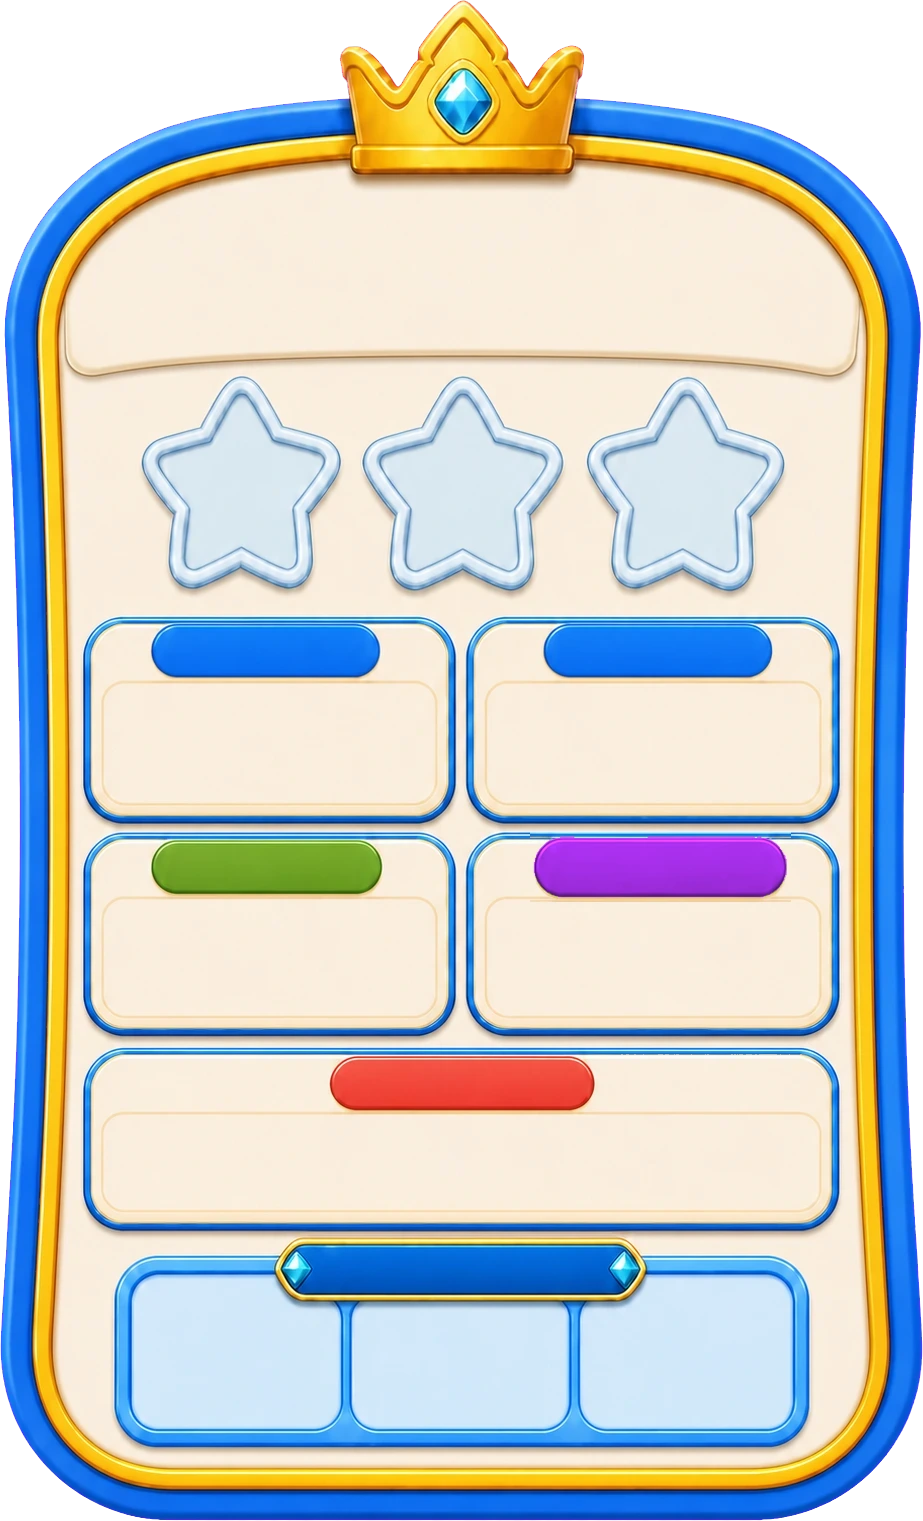
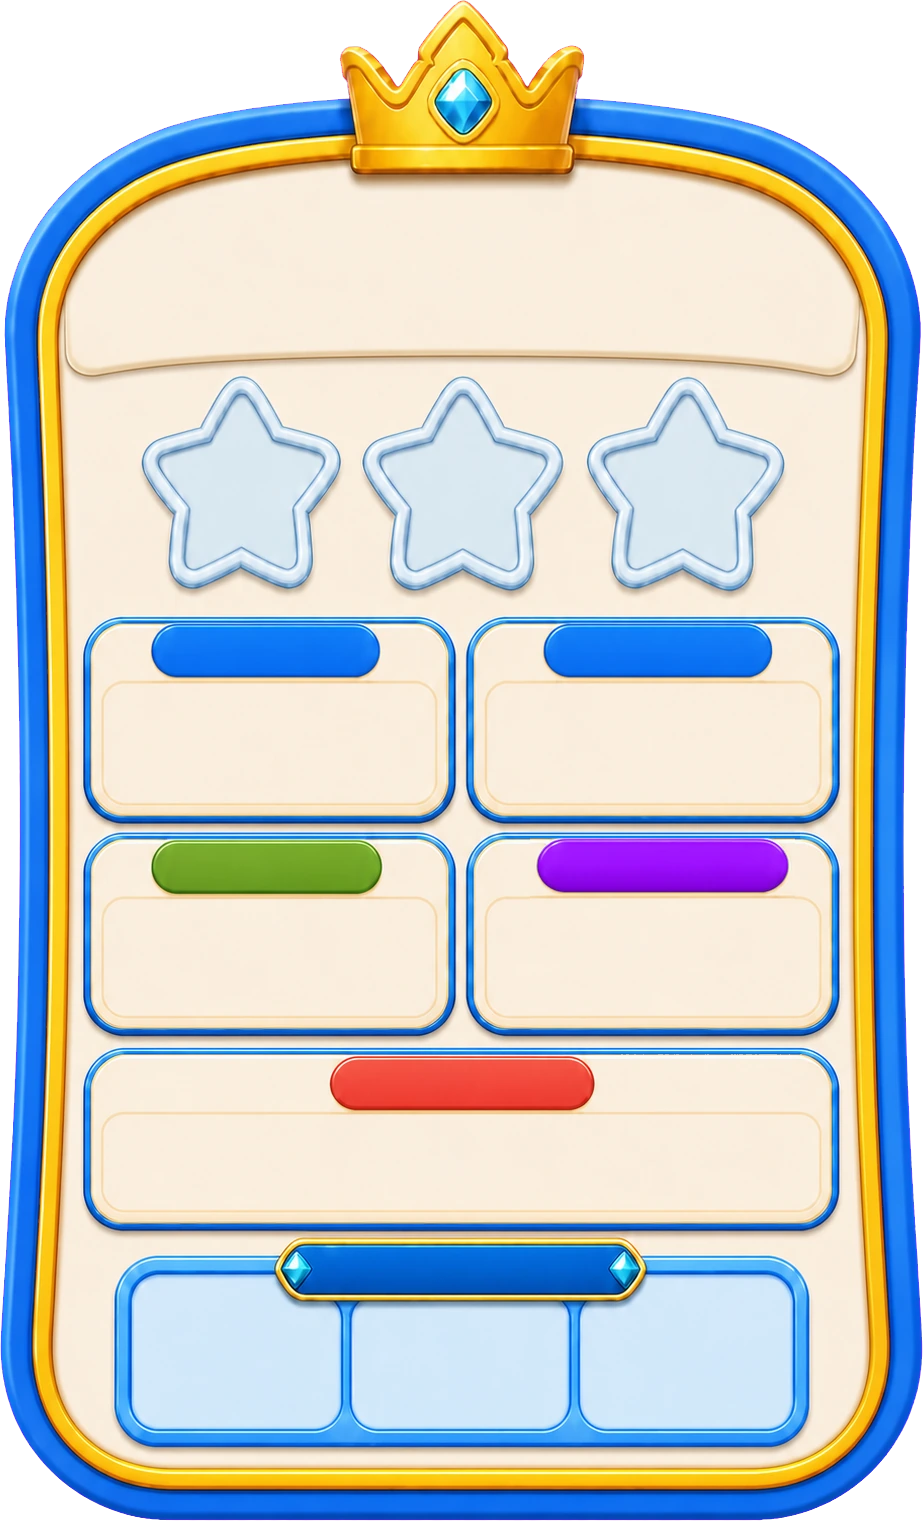
v3: take Codex's fixed chip art, minus a stray bar it shipped with
The v4-2 panel fixes the LONGEST WORD chip properly at source: solid all the
way through, and a top-to-bottom gradient of 17.5 luminance points, which is
stronger than the green chip's 12.2. That is the authored fix and it replaces
the chip this branch had rebuilt by hand from the ACCURACY chip, which was
only ever a workaround for the flat, pinholed original.

It does arrive with a new defect, so the art is not taken verbatim: a purple
bar bleeds across the card's top frame, six rows deep (y832-837) and 265px
wide, painting over the blue border above the chip. The chip itself starts at
y838, so the bar separates cleanly -- those rows are restored from x520, a
column outside the bar and inside the frame's straight run. Zero purple
pixels survive above the chip and all 12,870 chip pixels are untouched.
Re-encoded at q92, which lands within 3KB of the previous asset and keeps the
chip fully opaque.

Removing the bar also corrected the measurements. The earlier pill positions
came from a saturation test that could not tell a chip from the blue card
frame above it, and on the lower rows it was locking onto the frame and
pulling the measured centre up. Colour-specific boxes put ACCURACY at 56.94%,
LONGEST at 56.84% and HINTS at 71.20%, roughly half a percent below where
those labels were sitting; SCORE and TIME were unaffected and stay put. The
rendered output confirms the shift independently -- the labels measured 12 to
15 device pixels high before and centre now.
[…]

Changed region(s): [[0.5764, 0.5253, 0.8494, 0.618]]

diff --git a/app/v3/LevelCompletePanel.module.css b/app/v3/LevelCompletePanel.module.css
@@ -132,9 +132,9 @@
 /* Pill centres, measured from the artwork rather than estimated from the layout. */
 .scoreLabel    { left: 28.76%; top: 42.50%; }
 .timeLabel     { left: 71.24%; top: 42.50%; }
-.accuracyLabel { left: 28.87%; top: 56.38%; }
-.longestLabel  { left: 71.51%; top: 56.25%; width: 30%; }
-.hintsLabel    { left: 50%;    top: 70.51%; }
+.accuracyLabel { left: 28.82%; top: 56.94%; }
+.longestLabel  { left: 71.72%; top: 56.84%; width: 30%; }
+.hintsLabel    { left: 50%;    top: 71.20%; }
 /* The reward ribbon is drawn a few pixels left of the panel's centre line. */
 .rewardLabel   { left: 49.35%; top: 83.00%; width: 44%; }
 
